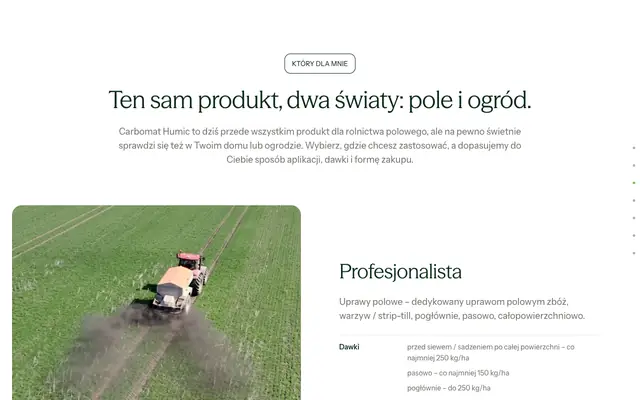
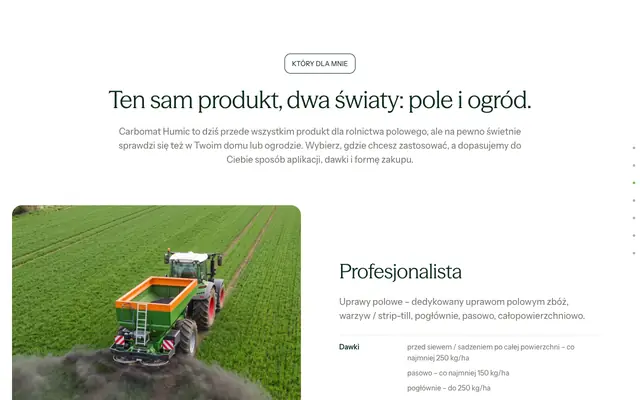
feat(v7): modern spreader on Carbomat Humic field photos

Changed region(s): [[0.0, 0.51, 0.4688, 1.0]]

diff --git a/v7/ce/CE-36-wiersz-zdjecie-opis.css b/v7/ce/CE-36-wiersz-zdjecie-opis.css
@@ -97,7 +97,7 @@
 :is(.c5-who__media,.on-who__media){position:relative;aspect-ratio:4/5;max-height:calc(100svh - 2 * var(--c5-gutter));overflow:hidden;
   border-radius:var(--ch-radius-control-l);background:var(--ch-surface-warm-strong);}
 .c5-who__ph{position:absolute;inset:-6% 0 auto;height:118%;transform:translateY(calc(var(--who-par,-6) * 1%));will-change:transform;}
-img.c5-who__ph{display:block;width:100%;object-fit:cover;}
+img.c5-who__ph{display:block;width:100%;object-fit:cover;object-position:var(--who-pos,50% 50%);}  /* --who-pos: focus of one occurrence, set on the root */
 .on-who__ph{position:absolute;inset:-6% 0 auto;height:118%;width:100%;border-radius:0;border:0;
   transform:translateY(calc(var(--on-par,-6) * 1%));will-change:transform;}
 .on-who__ph .wf-icon{width:var(--ch-size-icon-xl);height:var(--ch-size-icon-xl);color:var(--ch-text-secondary);}

diff --git a/v7/carbomat-humic.html b/v7/carbomat-humic.html
@@ -289,7 +289,7 @@
 
 
 
-      <article class="c5-who" id="wariant-pro" data-who="pro" data-ce="CE-36" data-ce-od="#ktory-dla-mnie">
+      <article class="c5-who" id="wariant-pro" data-who="pro" data-ce="CE-36" data-ce-od="#ktory-dla-mnie" style="--who-pos:50% 22%">
         <div class="c5-who__media" data-who-media>
           <img class="c5-who__ph" src="img/foto/carbomat-humic-kto-pole.jpg" alt="" width="1493" height="2000" loading="lazy" decoding="async">
         </div>
